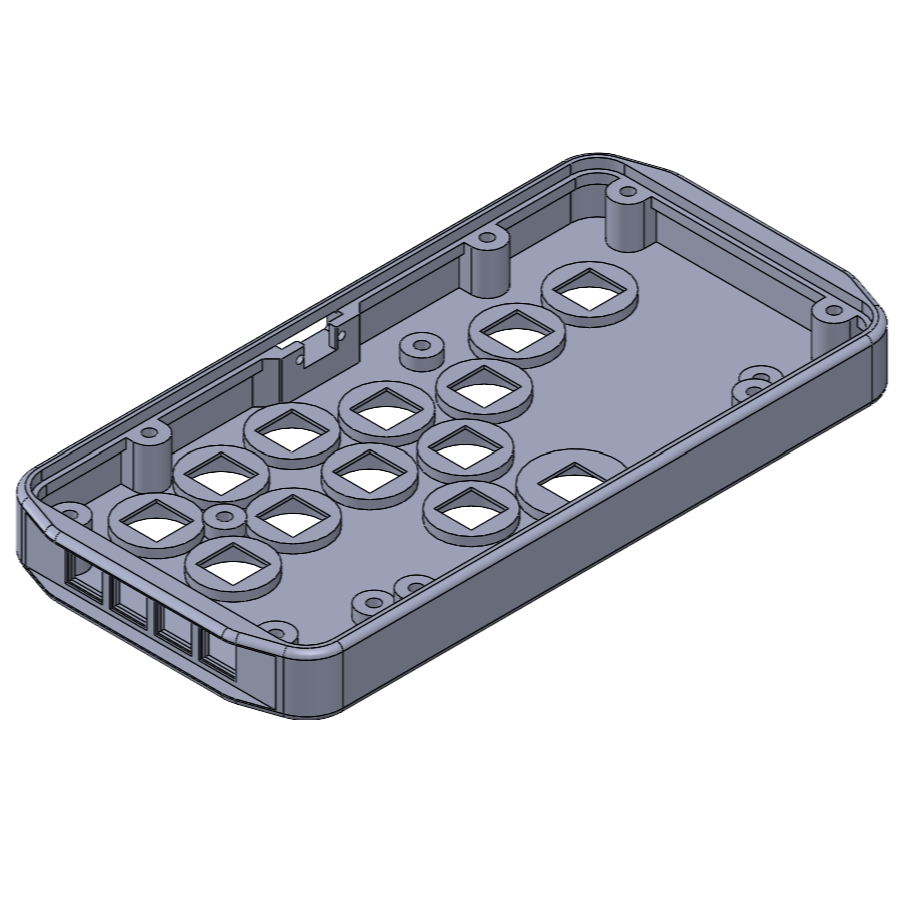
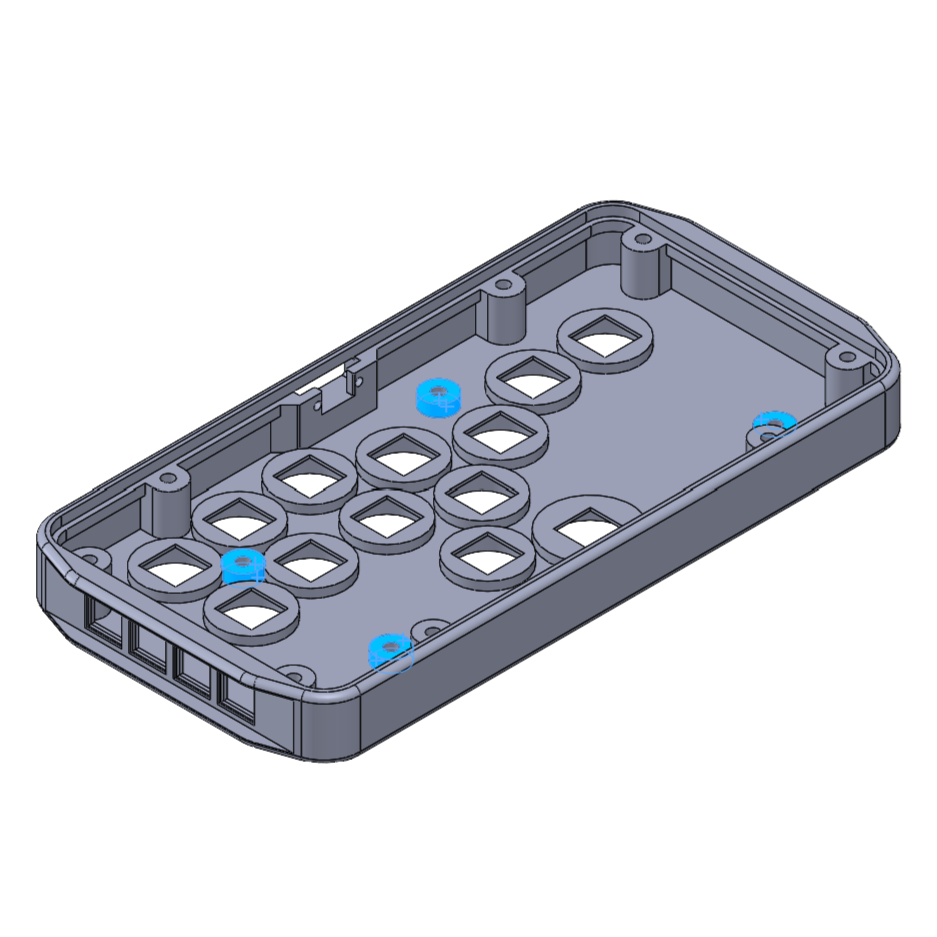
add to project info

Changed region(s): [[0.0, 0.1554, 0.9945, 0.8391]]

diff --git a/_site/projects/1_DBF/index.html b/_site/projects/1_DBF/index.html
@@ -37,7 +37,7 @@
 
 
 
-  <meta property="article:published_time" content="2026-01-19T22:41:04-05:00">
+  <meta property="article:published_time" content="2026-01-19T22:49:58-05:00">
 
 
 

diff --git a/_site/projects/2_RHR/index.html b/_site/projects/2_RHR/index.html
@@ -37,7 +37,7 @@
 
 
 
-  <meta property="article:published_time" content="2026-01-19T22:41:04-05:00">
+  <meta property="article:published_time" content="2026-01-19T22:49:58-05:00">
 
 
 

diff --git a/_site/projects/3D-printed-widgets/index.html b/_site/projects/3D-printed-widgets/index.html
@@ -37,7 +37,7 @@
 
 
 
-  <meta property="article:published_time" content="2026-01-19T22:41:04-05:00">
+  <meta property="article:published_time" content="2026-01-19T22:49:58-05:00">
 
 
 

diff --git a/_site/projects/3_leverless-1/index.html b/_site/projects/3_leverless-1/index.html
@@ -37,7 +37,7 @@
 
 
 
-  <meta property="article:published_time" content="2026-01-19T22:41:04-05:00">
+  <meta property="article:published_time" content="2026-01-19T22:49:58-05:00">
 
 
 

diff --git a/_site/projects/4_leverless-2/index.html b/_site/projects/4_leverless-2/index.html
@@ -37,7 +37,7 @@
 
 
 
-  <meta property="article:published_time" content="2026-01-19T22:41:04-05:00">
+  <meta property="article:published_time" content="2026-01-19T22:49:58-05:00">
 
 
 

diff --git a/_site/projects/5_FEA/index.html b/_site/projects/5_FEA/index.html
@@ -37,7 +37,7 @@
 
 
 
-  <meta property="article:published_time" content="2026-01-19T22:41:04-05:00">
+  <meta property="article:published_time" content="2026-01-19T22:49:58-05:00">
 
 
 

diff --git a/_site/projects/6_autoshrink/index.html b/_site/projects/6_autoshrink/index.html
@@ -37,7 +37,7 @@
 
 
 
-  <meta property="article:published_time" content="2026-01-19T22:41:04-05:00">
+  <meta property="article:published_time" content="2026-01-19T22:49:58-05:00">
 
 
 

diff --git a/_site/projects/7_lifecycle-tester/index.html b/_site/projects/7_lifecycle-tester/index.html
@@ -37,7 +37,7 @@
 
 
 
-  <meta property="article:published_time" content="2026-01-19T22:41:04-05:00">
+  <meta property="article:published_time" content="2026-01-19T22:49:58-05:00">
 
 
 

diff --git a/_projects/4_leverless-2.md b/_projects/4_leverless-2.md
@@ -90,4 +90,19 @@ In the Leverless Mk.1, the electronics take up a ton of room. This time I design
 
 # Revision C
 
-The first 
+The first finished assembly worked well, but had some quirks I wanted to address:
+
+1. Buttons sit too high above the top surface, and it's difficult to swipe between them.
+2. 2 piece clamshell design makes it awkward to assemble:
+- Difficult to close around the side buttons.
+- Panel mount cable is attached to both halves of the shell at either end, and wants to force the shell apart while fastening the screws.
+
+
+<div style="display:flex; gap:10px;">
+  <img src="{{ site.baseurl }}/assets/images/leverless-2/revc_shell.png" style="width:50%;">
+  <img src="{{ site.baseurl }}/assets/images/leverless-2/revc_bottom.png" style="width:50%;">
+</div>
+
+![]({{ site.baseurl }}/assets/images/leverless-2/crosssection.png){: .align-center}
+<figcaption>All done!</figcaption>{: .text-center}
+
